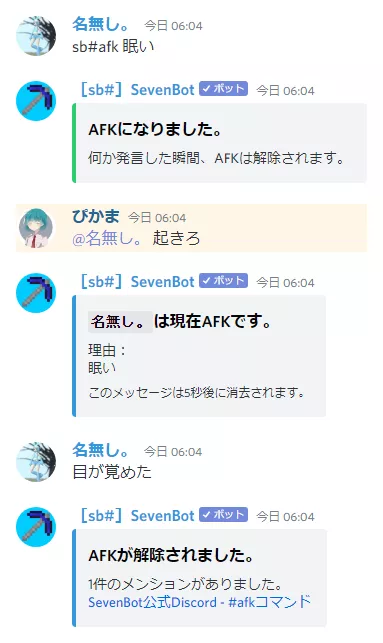
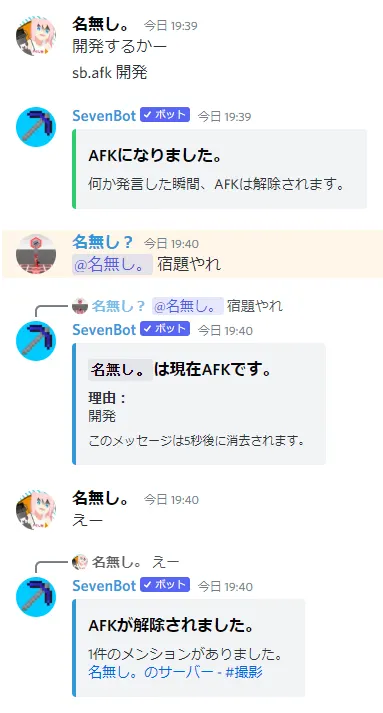
Add: ダークテーマ用の画像を追加

diff --git a/general/templates/general/index.html b/general/templates/general/index.html
@@ -58,6 +58,8 @@
         </p>
     </div>
     <picture>
+        <source srcset="/static/feature-imgs/autoreply-dark.webp" type="image/webp" media="(prefers-color-scheme: dark)">
+        <source srcset="/static/feature-imgs/autoreply-dark.png" type="image/png" media="(prefers-color-scheme: dark)">
         <source srcset="/static/feature-imgs/autoreply.webp" type="image/webp">
         <img src="/static/feature-imgs/autoreply.png" class="top-features-image">
     </picture>
@@ -71,6 +73,8 @@
         </p>
     </div>
     <picture>
+        <source srcset="/static/feature-imgs/afk-dark.webp" type="image/webp" media="(prefers-color-scheme: dark)">
+        <source srcset="/static/feature-imgs/afk-dark.png" type="image/png" media="(prefers-color-scheme: dark)">
         <source srcset="/static/feature-imgs/afk.webp" type="image/webp">
         <img src="/static/feature-imgs/afk.png" class="top-features-image">
     </picture>
